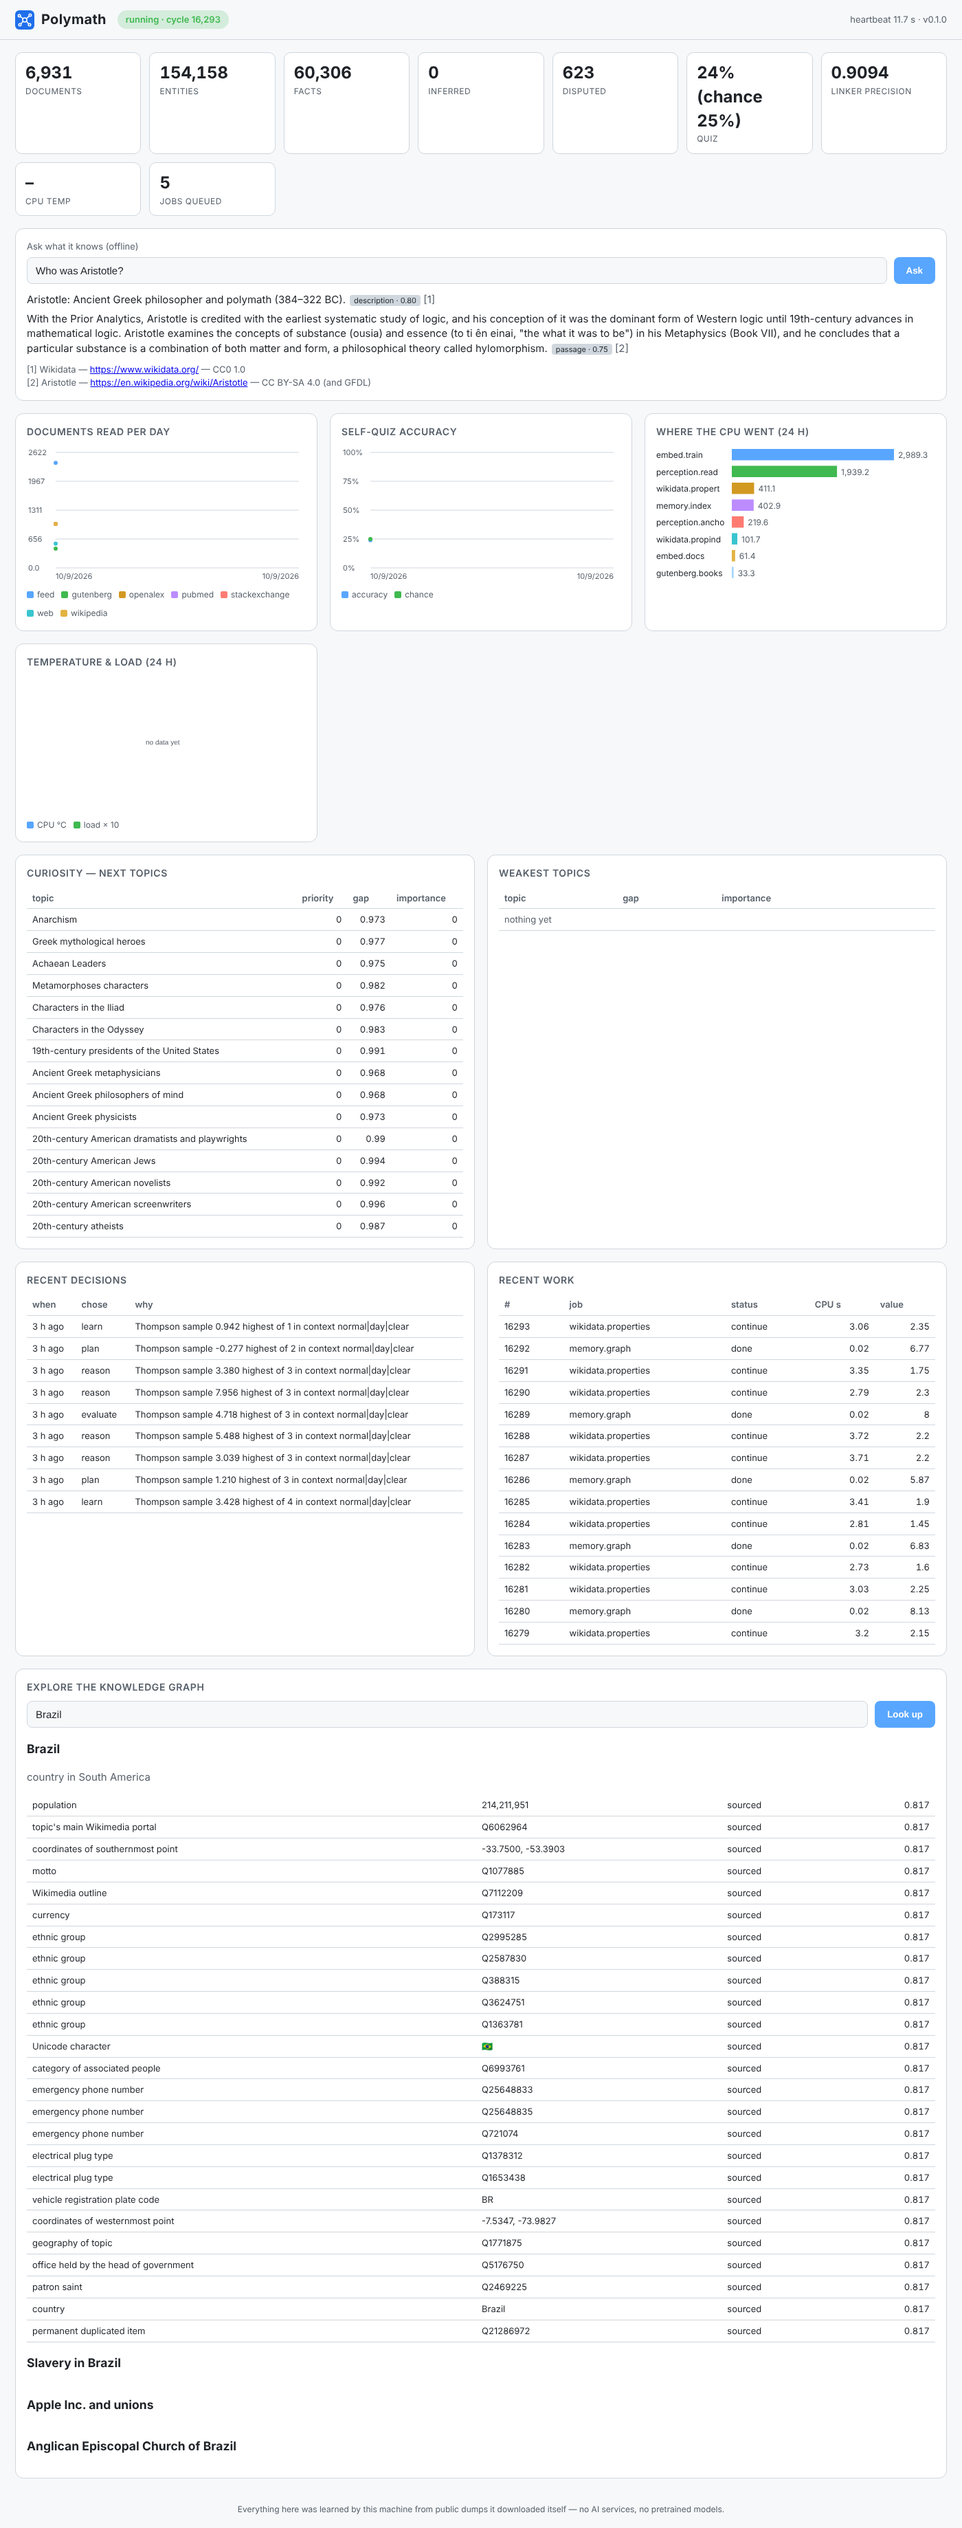
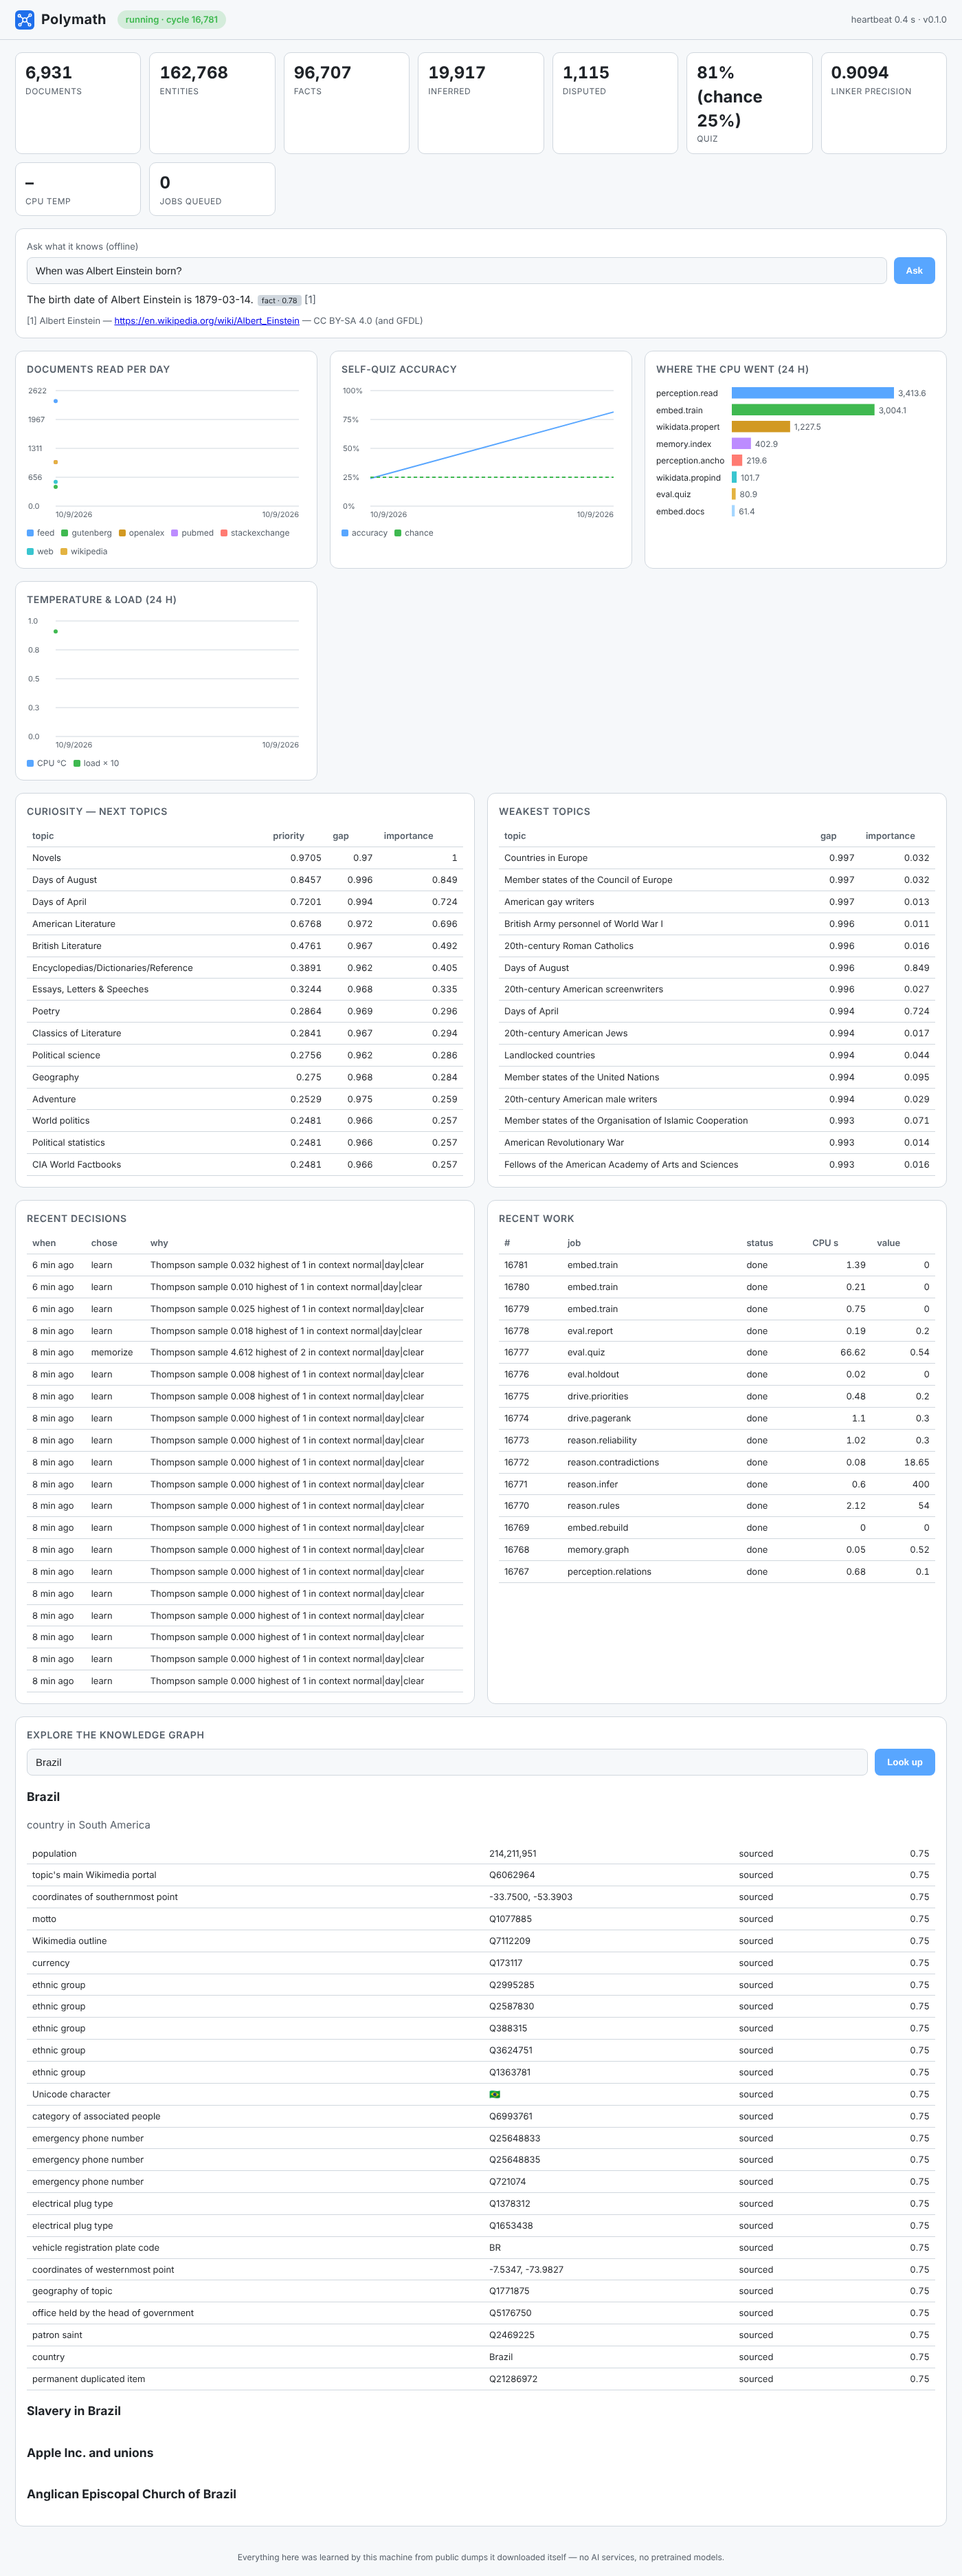
VERIFICATION: real-data learning results, final test and coverage figures
Rules from real property metadata (210 inverse, 13 transitive, 6 symmetric),
19,917 inferred facts, self-quiz 22/27 = 81.5% vs 25% chance on held-out facts
(Wilson 95% CI 63-92%). Dashboard screenshot re-rendered with a live agent.
232 tests, 93% coverage.

Claude-Session: https://claude.ai/code/session_013Hz8tHGC4sTy96rd1GqCQ8

diff --git a/polymath/docs/VERIFICATION.md b/polymath/docs/VERIFICATION.md
@@ -23,11 +23,11 @@ roughly 2–4× slower per core on the numpy-heavy parts.
 
 ## 1. Quality bar
 
-- **Tests:** All automated tests pass (`pytest`), including:
+- **Tests:** 232 automated tests pass (`pytest`), including:
   - an **offline end-to-end run** of every source through the real agent loop, against a local fixture web server;
   - staged install and uninstall;
   - a real HTTP dashboard server.
-- **Coverage:** ≥ 90 % (exact figure in the final run below) of statements and branches (`pytest --cov=polymath`).
+- **Coverage:** 93 % of statements and branches (`pytest --cov=polymath`).
 - **Lint and types:** `ruff check`, `ruff format --check` and `mypy --strict` (package and scripts) are clean.
 - **Purity:**
   - `tests/test_purity.py` imports every runtime module and fails on any third-party import other than numpy.
@@ -110,7 +110,42 @@ The corpora are synthetic Zipf-distributed text and power-law graphs, so the siz
 
 ## 6. Learning on real data (phases 6–8)
 
-_The full offline learning run on the real learning copy is in progress; results are added when it completes._
+This was run on the **learning copy**: the real phase-2 sample, reprocessed offline by the real agent loop
+(`scripts/learn_offline.py --full`), plus the live Wikidata property bootstrap.
+
+| what | result |
+|---|---|
+| documents read and indexed | 6,931 (443 near-duplicates set aside) |
+| entities / aliases | 162,768 / 184,053 |
+| sourced facts (Wikidata + infoboxes) | 76,790 (13,266 from infoboxes) |
+| Wikidata property records read | 13,315 of 13,930 located; 15,098 of 15,101 predicates named |
+| rules learned | 210 inverse, 13 transitive, 6 symmetric (declared by the properties), 41 domain (statistics) |
+| facts inferred by forward chaining | 19,917 |
+| disputed facts | 1,115 |
+| entity linker, Wikipedia-anchor validation | precision 0.909, recall 0.875 |
+| **self-quiz on held-out facts** | **22 / 27 = 81.5 %** (95 % Wilson CI 63–92 %), chance 25 %; P(≥ 22 by chance) ≈ 1e-9 |
+| quiz answers by deciding evidence | related facts 18/19, embedding 3/4, no evidence 1/4 |
+| learned evidence weights (leave-one-out on 100 visible facts) | related 0.61, embedding 0.51, text 0.02, association 0.00, graph 3.0 (prior; a hidden fact never counts directly) |
+| calibration fit | log-likelihood −0.57 vs −1.39 for chance; 83 % training accuracy |
+
+**Reading the quiz honestly.**
+- **Sample size.** It is only 27 questions. The phase-2 sample holds 1,000 Wikidata items, and only held-out
+  facts whose subject *and* answer have names can be asked. On the Pi, reading the full dump makes this grow
+  by orders of magnitude.
+- **Where the answers come from.** Most correct answers come from *other* facts the agent knows, for example
+  an inverse relation or a part-of chain. That is reasoning over its own graph, not text understanding.
+- **Before the fix.** The earlier run, before the property bootstrap and the link predictor, scored **12/50 =
+  24 %**, which is chance. That run is kept in the database as quiz #1.
+
+**Curiosity on real data.** Topic priorities are non-zero once PageRank precedes them. The top topics were
+the Gutenberg bookshelf "Novels" (0.97), "Days of August", "Days of April" (Wikipedia date categories) and
+"American Literature". Each one shows its gap × importance × novelty breakdown in `polymath why`.
+
+**Answers on real data** (no network):
+- "When was Albert Einstein born?" → 1879-03-14, citing the Wikipedia article.
+- "What is the population of Brazil?" → 214,211,951, citing Wikidata.
+- "What is the capital of Belgium?" → "Q239 (an entity whose name I have not read yet)". Brussels' record is
+  not in the 1,000-item sample, and the agent says so instead of guessing.
 
 ## 7. Dashboard in a real browser
 
